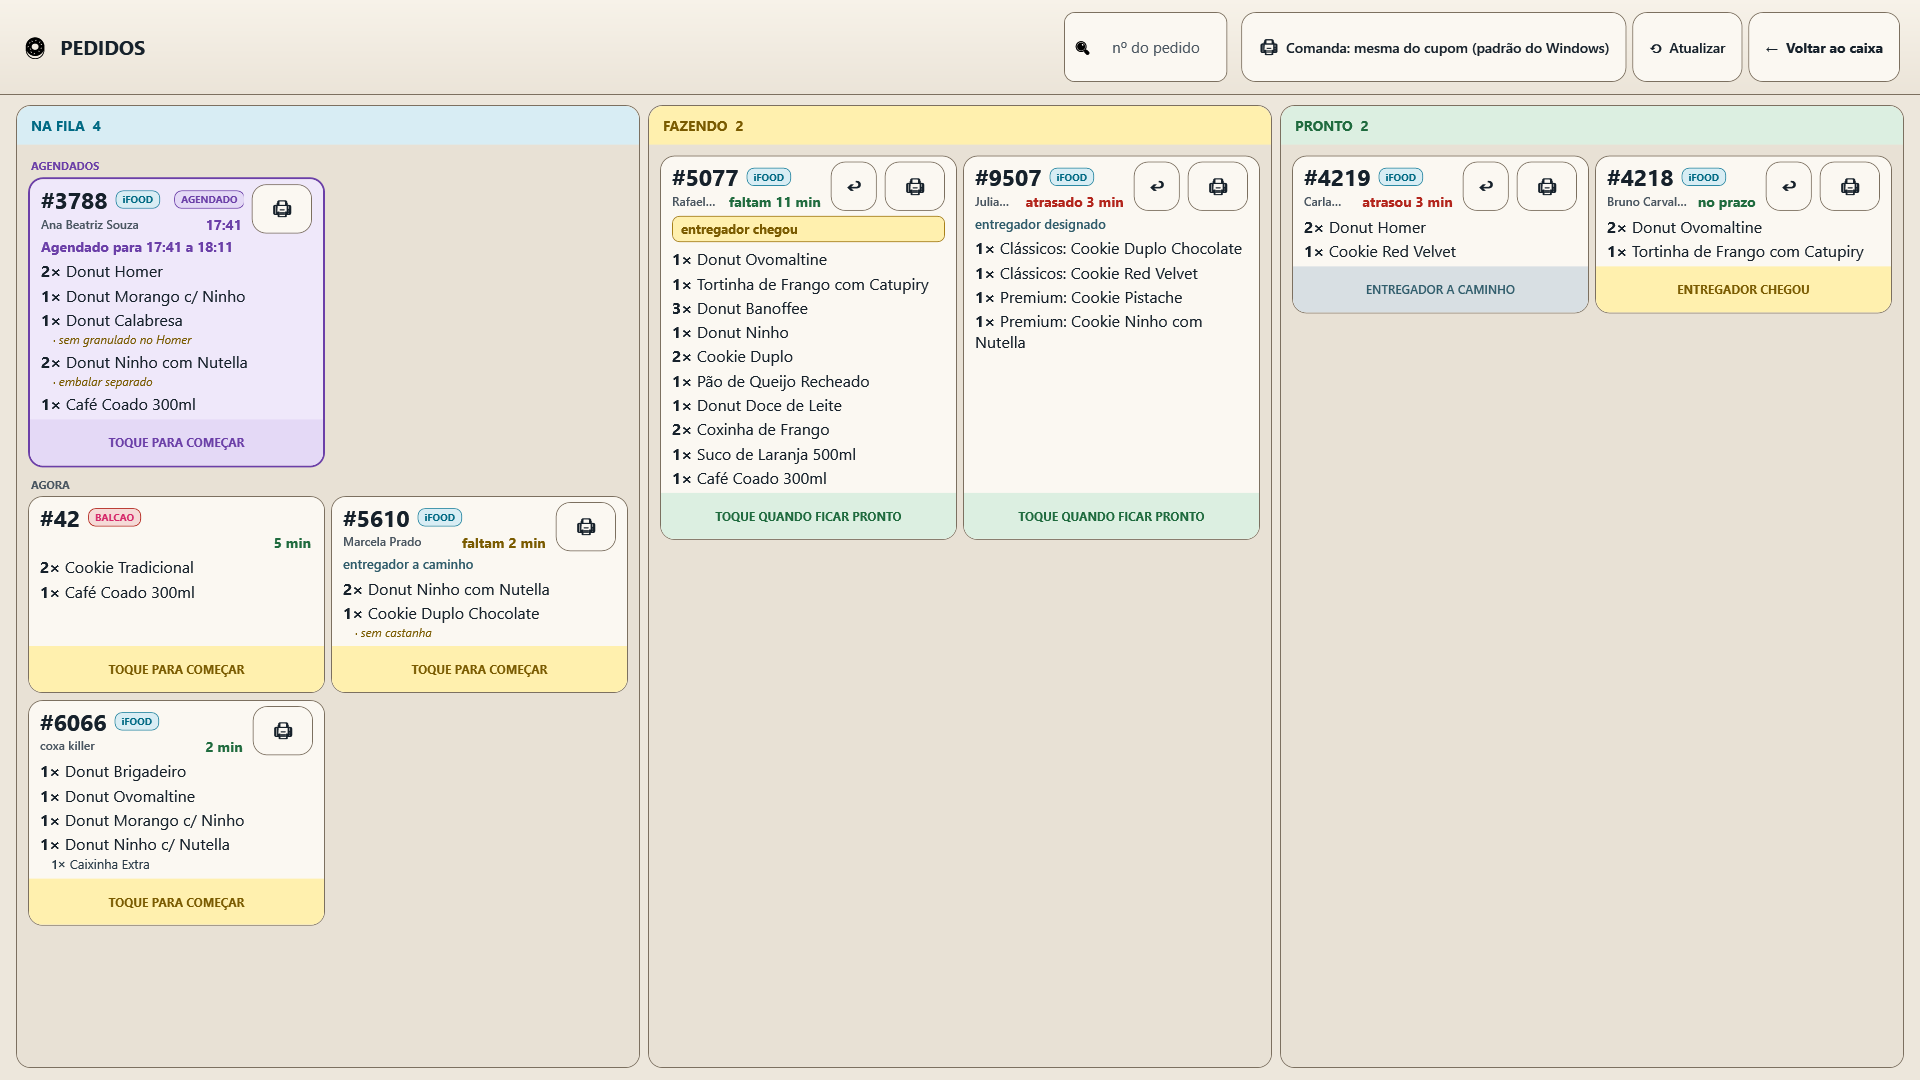
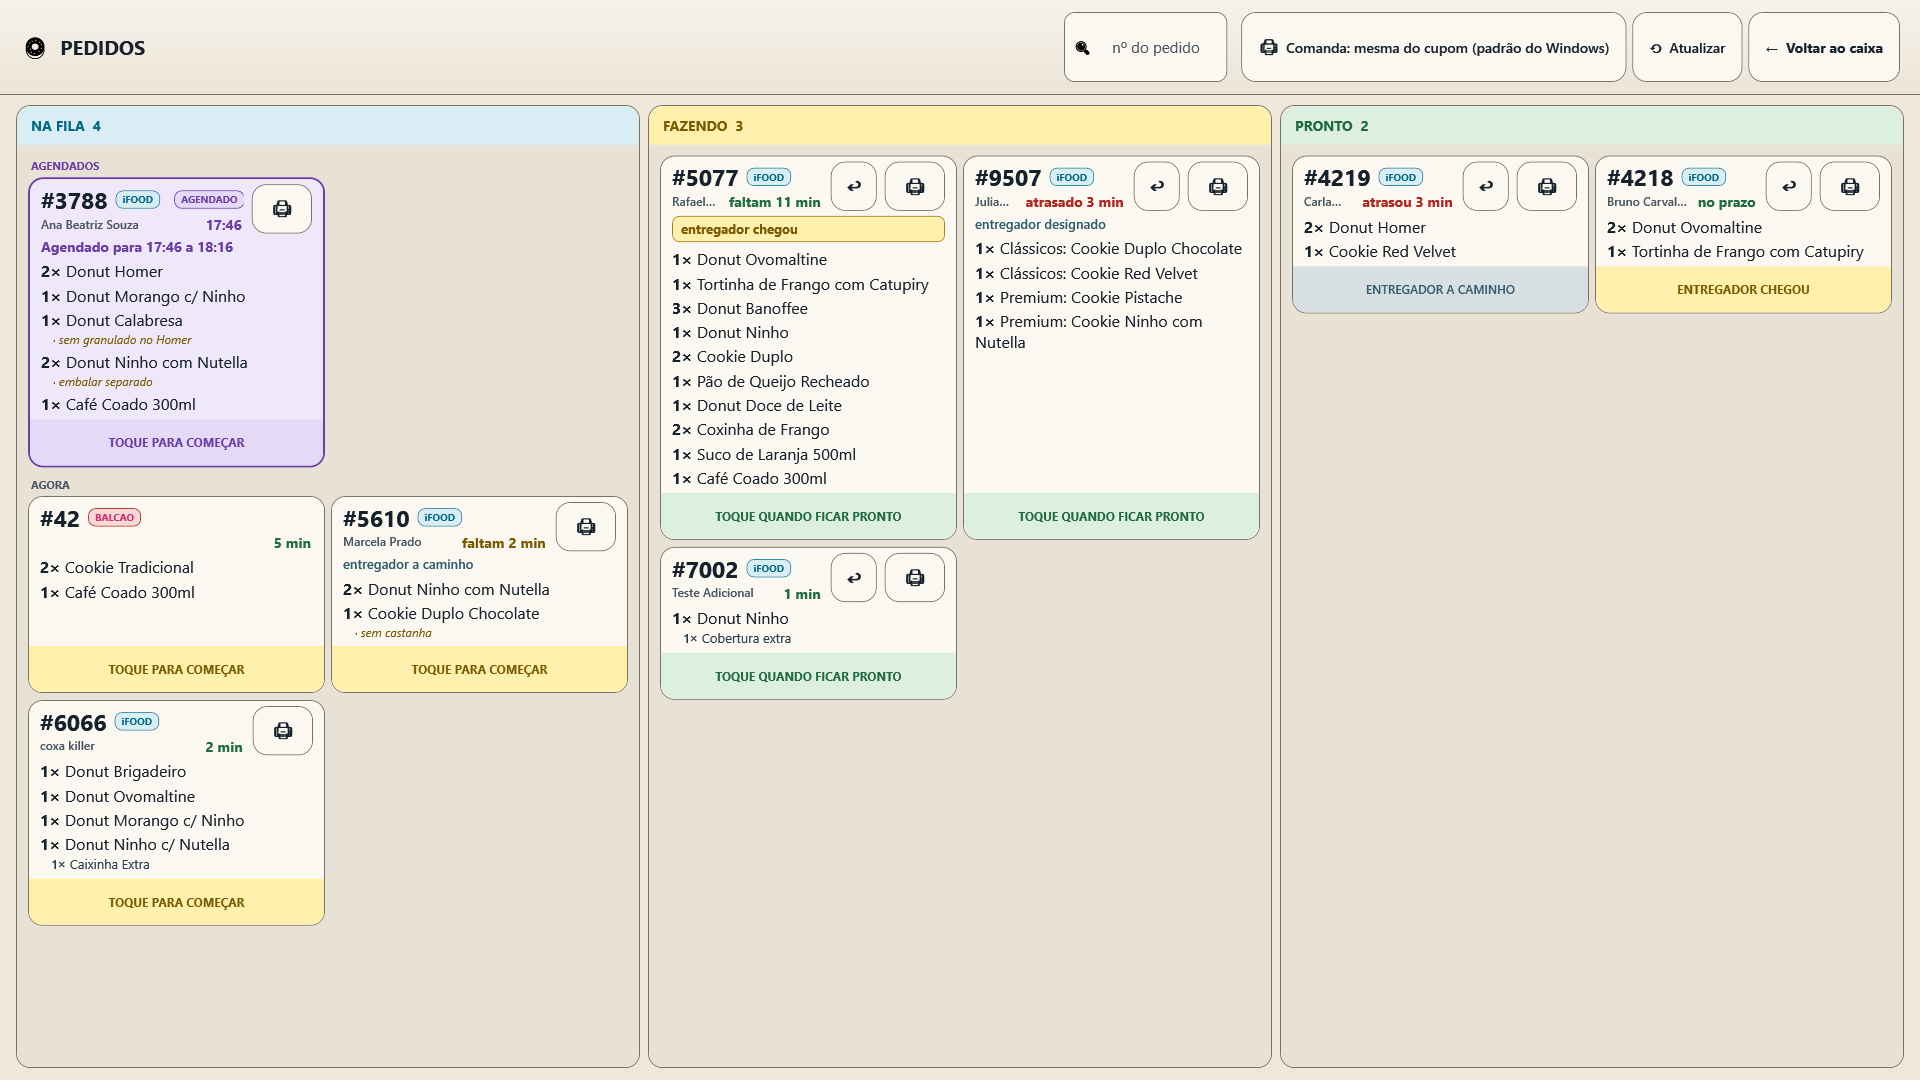
KDS: so combo perde o nome; item normal fica com o nome e o adicional embaixo
Fecha o risco da regra "o pai some": um "Donut Ninho" com "Cobertura extra"
sairia so como "1x Cobertura extra", e o donut sumiria do card, da bobina e
da etiqueta.

Agora o pai so some quando o item e COMBO: nome com a palavra inteira Combo,
Box, Caixa, Kit, Mix, Duo ou Trio, ou 2 ou mais complementos que nao sao
embalagem nem adicional (Extra/Adicional). Item normal com complemento fica
com o nome e o quadradinho, e o complemento vai embaixo, recuado e sem
quadradinho (TipoLinhaEtiqueta.Adicional), multiplicado pelas unidades.
"Caixa" e palavra inteira de proposito: "Caixinha" continua embalagem.

O #6066 segue so com os 4 donuts e a Caixinha Extra sem quadradinho.
Testes: Donut Ninho + Cobertura extra, 2 Cookies + Nutella extra (etiqueta e
bobina), ECombo/EAdicional. Foto do card com o #6066 e um item com adicional.
Bateria: === 5343 OK, 0 falhas ===

Changed region(s): [[0.3438, 0.4889, 0.5, 0.6417]]

diff --git a/Pdv.Nucleo/EtiquetaKds.cs b/Pdv.Nucleo/EtiquetaKds.cs
@@ -28,6 +28,13 @@ public enum TipoLinhaEtiqueta
     /// configurável <see cref="EtiquetaKds.ChaveEmbalagem"/>.
     /// </summary>
     Embalagem,
+    /// <summary>
+    /// ADICIONAL de um item que NÃO é combo ("Donut Ninho" + "Cobertura extra"). O item
+    /// fica com o nome e o quadradinho; o adicional vai embaixo, recuado e sem caixa
+    /// própria, como uma instrução do item (06/10: o donut não pode sumir e deixar só
+    /// "1× Cobertura extra" na etiqueta).
+    /// </summary>
+    Adicional,
 }
 
 /// <summary>Uma linha do miolo da etiqueta.</summary>
@@ -38,7 +45,7 @@ public sealed record LinhaEtiqueta(TipoLinhaEtiqueta Tipo, string Qtd, string Te
     public bool Caixa => Tipo is TipoLinhaEtiqueta.Item or TipoLinhaEtiqueta.Subitem;
 
     /// <summary>0 = encostado na margem; 1 = recuado sob o item.</summary>
-    public int Nivel => Tipo is TipoLinhaEtiqueta.Observacao or TipoLinhaEtiqueta.Embalagem ? 1 : 0;
+    public int Nivel => Tipo is TipoLinhaEtiqueta.Observacao or TipoLinhaEtiqueta.Embalagem or TipoLinhaEtiqueta.Adicional ? 1 : 0;
 
     /// <summary>A linha como se lê, para teste e log.</summary>
     public string Lida => (Caixa ? "[ ] " : "") + (Qtd.Length == 0 ? Texto : Qtd + " " + Texto);
@@ -100,6 +107,15 @@ public static class EtiquetaKds
 
     /// <summary>O que é embalagem quando a loja não configurou nada.</summary>
     public static readonly IReadOnlyList<string> EmbalagemPadrao = new[] { "Caixinha", "Embalagem", "Sacola" };
+
+    /// <summary>
+    /// Palavra INTEIRA no nome do item que o declara combo. "Caixa" é palavra inteira de
+    /// propósito: "Caixinha" é embalagem, não combo.
+    /// </summary>
+    public static readonly IReadOnlyList<string> PalavrasCombo = new[] { "Combo", "Box", "Caixa", "Kit", "Mix", "Duo", "Trio" };
+
+    /// <summary>Palavra inteira que marca um complemento como ADICIONAL ("Cobertura extra", "Adicional de Nutella").</summary>
+    public static readonly IReadOnlyList<string> PalavrasAdicional = new[] { "Extra", "Extras", "Adicional", "Adicionais" };
 
     public const double LarguraMm = 100;
     public const double AlturaMm = 150;
@@ -185,6 +201,35 @@ public static class EtiquetaKds
         return false;
     }
 
+    /// <summary>Alguma das palavras aparece INTEIRA no nome (sem acento, sem caixa)?</summary>
+    private static bool TemPalavra(string? nome, IReadOnlyList<string> palavras)
+    {
+        var n = SemAcento(nome ?? "");
+        if (n.Length == 0) return false;
+        foreach (var p in palavras)
+        {
+            var w = SemAcento(p);
+            if (w.Length > 0 && System.Text.RegularExpressions.Regex.IsMatch(n,
+                    @"(?<![\p{L}\p{N}])" + System.Text.RegularExpressions.Regex.Escape(w) + @"(?![\p{L}\p{N}])"))
+                return true;
+        }
+        return false;
+    }
+
+    /// <summary>
+    /// O item é COMBO, e então o nome dele some e os sabores viram as linhas? Combo é quem
+    /// se diz combo no nome (<see cref="PalavrasCombo"/>) ou quem tem 2 ou mais
+    /// complementos que não são embalagem nem adicional ("Leve 5 brownies, pague só 4"
+    /// com 2 sabores). Item normal com complemento ("Donut Ninho" + "Cobertura extra")
+    /// NÃO é: o donut fica com o nome e o quadradinho.
+    /// </summary>
+    /// <param name="sabores">Quantos complementos de produção (nem embalagem, nem adicional) o item tem.</param>
+    public static bool ECombo(string? nome, int sabores)
+        => sabores > 0 && (TemPalavra(nome, PalavrasCombo) || sabores >= 2);
+
+    /// <summary>O complemento é um adicional do item ("Cobertura extra")?</summary>
+    public static bool EAdicional(string? nome) => TemPalavra(nome, PalavrasAdicional);
+
     private static string SemAcento(string s)
     {
         var d = s.Normalize(System.Text.NormalizationForm.FormD);
@@ -216,10 +261,11 @@ public static class EtiquetaKds
     /// 4un" porque só a etiqueta seguia a regra; o card e a bobina mostravam o pai em
     /// destaque). Uma lista só para os três: a regra não pode valer num papel e no outro não.
     ///
-    /// Item com subitens: o pai some e ficam os subitens, cada um com quadradinho. A
-    /// embalagem (<see cref="EEmbalagem"/>) fica na lista SEM quadradinho, depois do que
-    /// se produz. Se o item só tem embalagem como subitem ("Donut Homer" + "Sacola"), o
-    /// pai FICA: sumir com ele seria sumir com o donut.
+    /// COMBO (<see cref="ECombo"/>): o pai some e ficam os sabores, cada um com
+    /// quadradinho. ITEM NORMAL com complemento: o item fica com nome e quadradinho, e o
+    /// complemento vai embaixo, recuado e sem caixa (<see cref="TipoLinhaEtiqueta.Adicional"/>);
+    /// sumir com o pai ali seria sumir com o donut. A embalagem (<see cref="EEmbalagem"/>)
+    /// fica na lista SEM quadradinho, depois do que se produz, nos dois casos.
     /// </summary>
     public static List<LinhaEtiqueta> Linhas(Ticket t, IReadOnlyList<string>? embalagem = null)
     {
@@ -234,6 +280,7 @@ public static class EtiquetaKds
             // delivery (iFood e cardápio), que manda a quantidade por unidade, multiplica aqui.
             var subs = new List<LinhaEtiqueta>();
             var embs = new List<LinhaEtiqueta>();
+            var sabores = 0;
             if (i.Escolhas is { Count: > 0 })
             {
                 var mult = t.Origem == "balcao" ? 1m : i.Qtd / 1000m;
@@ -241,17 +288,23 @@ public static class EtiquetaKds
                     if (Subitem(esc, mult) is { } sub)
                     {
                         if (EEmbalagem(sub.Texto, palavras)) embs.Add(sub with { Tipo = TipoLinhaEtiqueta.Embalagem });
-                        else subs.Add(sub);
+                        else
+                        {
+                            subs.Add(sub);
+                            if (!EAdicional(sub.Texto)) sabores++;
+                        }
                     }
             }
-            if (subs.Count > 0) linhas.AddRange(subs);
+            if (ECombo(i.Descricao, sabores)) linhas.AddRange(subs);
             else
             {
-                // Sem subitem de produção, o pai é o que se produz (ou, ele mesmo, embalagem).
+                // Item normal: ele é o que se produz (ou, ele mesmo, embalagem), com o nome
+                // e o quadradinho; os complementos vão embaixo, recuados, sem caixa.
                 var principal = CardKds.ItemPrincipal(i.Qtd, i.Descricao, null);
                 linhas.Add(new LinhaEtiqueta(
                     EEmbalagem(principal.Nome, palavras) ? TipoLinhaEtiqueta.Embalagem : TipoLinhaEtiqueta.Item,
                     principal.Qtd, principal.Nome));
+                linhas.AddRange(subs.Select(s => s with { Tipo = TipoLinhaEtiqueta.Adicional }));
             }
             linhas.AddRange(embs);
             // A observação do pai continua, logo abaixo dos subitens dele.

diff --git a/Pdv.Testes/TestesEtiquetaKds.cs b/Pdv.Testes/TestesEtiquetaKds.cs
@@ -77,6 +77,38 @@ public static class TestesEtiquetaKds
             checar(semCaixinha.Linhas.Single(l => l.Texto == "Caixinha Extra") is { Tipo: TipoLinhaEtiqueta.Subitem, Caixa: true },
                 "embalagem é configurável: com só \"Sacola\" a Caixinha Extra volta a ter quadradinho");
         }
+        // ── ITEM NORMAL com complemento NÃO é combo: o nome fica com a caixa ──
+        {
+            const string json =
+                "[{\"qtd\":1,\"descricao\":\"Donut Ninho\",\"complements\":[{\"qtd\":1,\"nome\":\"Cobertura extra\"}],\"valor_unitario\":12.9}," +
+                "{\"qtd\":2,\"descricao\":\"Cookie\",\"complements\":[{\"qtd\":1,\"nome\":\"Nutella extra\"}],\"valor_unitario\":14.9}]";
+            var t = new Ticket("t-adic", "ifood", "ref-adic", "7002", "Cliente",
+                System.Text.Json.JsonSerializer.Serialize(Kds.ItensDeJson(json)), Kds.Recebido,
+                new DateTime(2026, 10, 6, 16, 0, 0), null, null);
+            var e = EtiquetaKds.Montar(t, new DateTime(2026, 10, 6));
+            var lidas = string.Join(" | ", e.Linhas.Select(l => l.Lida));
+            checar(e.Linhas.Count == 4
+                   && e.Linhas[0] is { Tipo: TipoLinhaEtiqueta.Item, Texto: "Donut Ninho", Qtd: "1×", Caixa: true }
+                   && e.Linhas[1] is { Tipo: TipoLinhaEtiqueta.Adicional, Texto: "Cobertura extra", Qtd: "1×", Caixa: false, Nivel: 1 },
+                "Donut Ninho + Cobertura extra: o donut fica com nome e caixa, o adicional embaixo sem caixa: " + lidas);
+            checar(e.Linhas[2] is { Tipo: TipoLinhaEtiqueta.Item, Texto: "Cookie", Qtd: "2×", Caixa: true }
+                   && e.Linhas[3] is { Tipo: TipoLinhaEtiqueta.Adicional, Texto: "Nutella extra", Qtd: "2×", Caixa: false },
+                "2 Cookies + Nutella extra: o adicional vale para cada cookie (2×) e não ganha caixa: " + lidas);
+            var bob = Kds.ComandaLinhas(t, 40, new DateTime(2026, 10, 6)).Select(LinhaEscala.Limpa).ToList();
+            checar(bob.Any(l => l.Contains("[ ] 1x Donut Ninho")) && bob.Any(l => l.Contains("1x Cobertura extra") && !l.Contains("[ ]"))
+                   && bob.Count(l => l.Contains("[ ]")) == 2,
+                "bobina: Donut Ninho e Cookie com quadradinho, adicionais sem");
+
+            checar(EtiquetaKds.ECombo("Leve 5 brownies, pague só 4", 2) && EtiquetaKds.ECombo("Kit Festa", 1)
+                   && EtiquetaKds.ECombo("COMBO 10 DONUTS", 1) && EtiquetaKds.ECombo("Caixa 6 donuts", 1),
+                "é combo: nome com Combo/Kit/Caixa, ou 2+ sabores");
+            checar(!EtiquetaKds.ECombo("Donut Ninho", 1) && !EtiquetaKds.ECombo("Combo Box", 0)
+                   && !EtiquetaKds.ECombo("Caixinha de presente", 1) && !EtiquetaKds.ECombo("Boxer", 1),
+                "não é combo: item com 1 complemento, combo sem sabor, Caixinha e palavra só parecida");
+            checar(EtiquetaKds.EAdicional("Cobertura extra") && EtiquetaKds.EAdicional("Adicional de Nutella")
+                   && !EtiquetaKds.EAdicional("Donut Extraordinário"),
+                "adicional casa a palavra inteira Extra/Adicional");
+        }
         {
             checar(EtiquetaKds.PalavrasEmbalagem(null).SequenceEqual(new[] { "Caixinha", "Embalagem", "Sacola" })
                    && EtiquetaKds.PalavrasEmbalagem("  ; , ").SequenceEqual(EtiquetaKds.EmbalagemPadrao),

diff --git a/Pdv.Testes/FotoKds.cs b/Pdv.Testes/FotoKds.cs
@@ -152,6 +152,10 @@ public static class FotoKds
         Card("6066", "ifood", Kds.Recebido, 2, "coxa killer",
             Kds.ItensDeJson(TestesEtiquetaKds.Itens6066).Cast<object>().ToArray());
 
+        // NA FILA: item NORMAL com adicional (nao e combo): o donut fica com o nome.
+        Card("7002", "ifood", Kds.Recebido, 1, "Teste Adicional",
+            Kds.ItensDeJson("[{\"qtd\":1,\"descricao\":\"Donut Ninho\",\"complements\":[{\"qtd\":1,\"nome\":\"Cobertura extra\"}]}]").Cast<object>().ToArray());
+
         // NA FILA — prazo daqui a 2 min e pouco: "faltam 2 min" em atenção, com o
         // entregador já a caminho (o pedido nem começou: é o card que mais precisa
         // da linha).

diff --git a/ImpressaoEtiqueta.cs b/ImpressaoEtiqueta.cs
@@ -420,7 +420,7 @@ public static partial class Impressao
         var obs = l.Tipo == TipoLinhaEtiqueta.Observacao;
         // EMBALAGEM (06/10): recuada até o texto, como a observação, um pouco menor e sem
         // quadradinho. Vai na sacola, mas não se confere como sabor.
-        var emb = l.Tipo == TipoLinhaEtiqueta.Embalagem;
+        var emb = l.Tipo is TipoLinhaEtiqueta.Embalagem or TipoLinhaEtiqueta.Adicional;
         var fonte = obs || emb ? fonteItem * 0.82 : fonteItem;
         var linha = new DockPanel
         {

diff --git a/Telas/Kds.xaml.cs b/Telas/Kds.xaml.cs
@@ -885,7 +885,8 @@ public partial class Kds : UserControl
                 corpo.Children.Add(obs);
                 continue;
             }
-            var emb = l.Tipo == TipoLinhaEtiqueta.Embalagem;
+            // Adicional ("Cobertura extra") e embalagem: recuados, menores, sem peso de item.
+            var emb = l.Tipo is TipoLinhaEtiqueta.Embalagem or TipoLinhaEtiqueta.Adicional;
             var linha = new TextBlock
             {
                 FontSize = emb ? 13 : 16, TextWrapping = TextWrapping.Wrap,

diff --git a/Pdv.Nucleo/Kds.cs b/Pdv.Nucleo/Kds.cs
@@ -506,6 +506,7 @@ public static class Kds
                         linhas.Add(Esc("      " + parte, 1.3));
                     break;
                 case TipoLinhaEtiqueta.Embalagem:
+                case TipoLinhaEtiqueta.Adicional:
                     foreach (var parte in Quebra(texto, L - 6))
                         linhas.Add(Esc("      " + parte, 1.2));
                     break;
